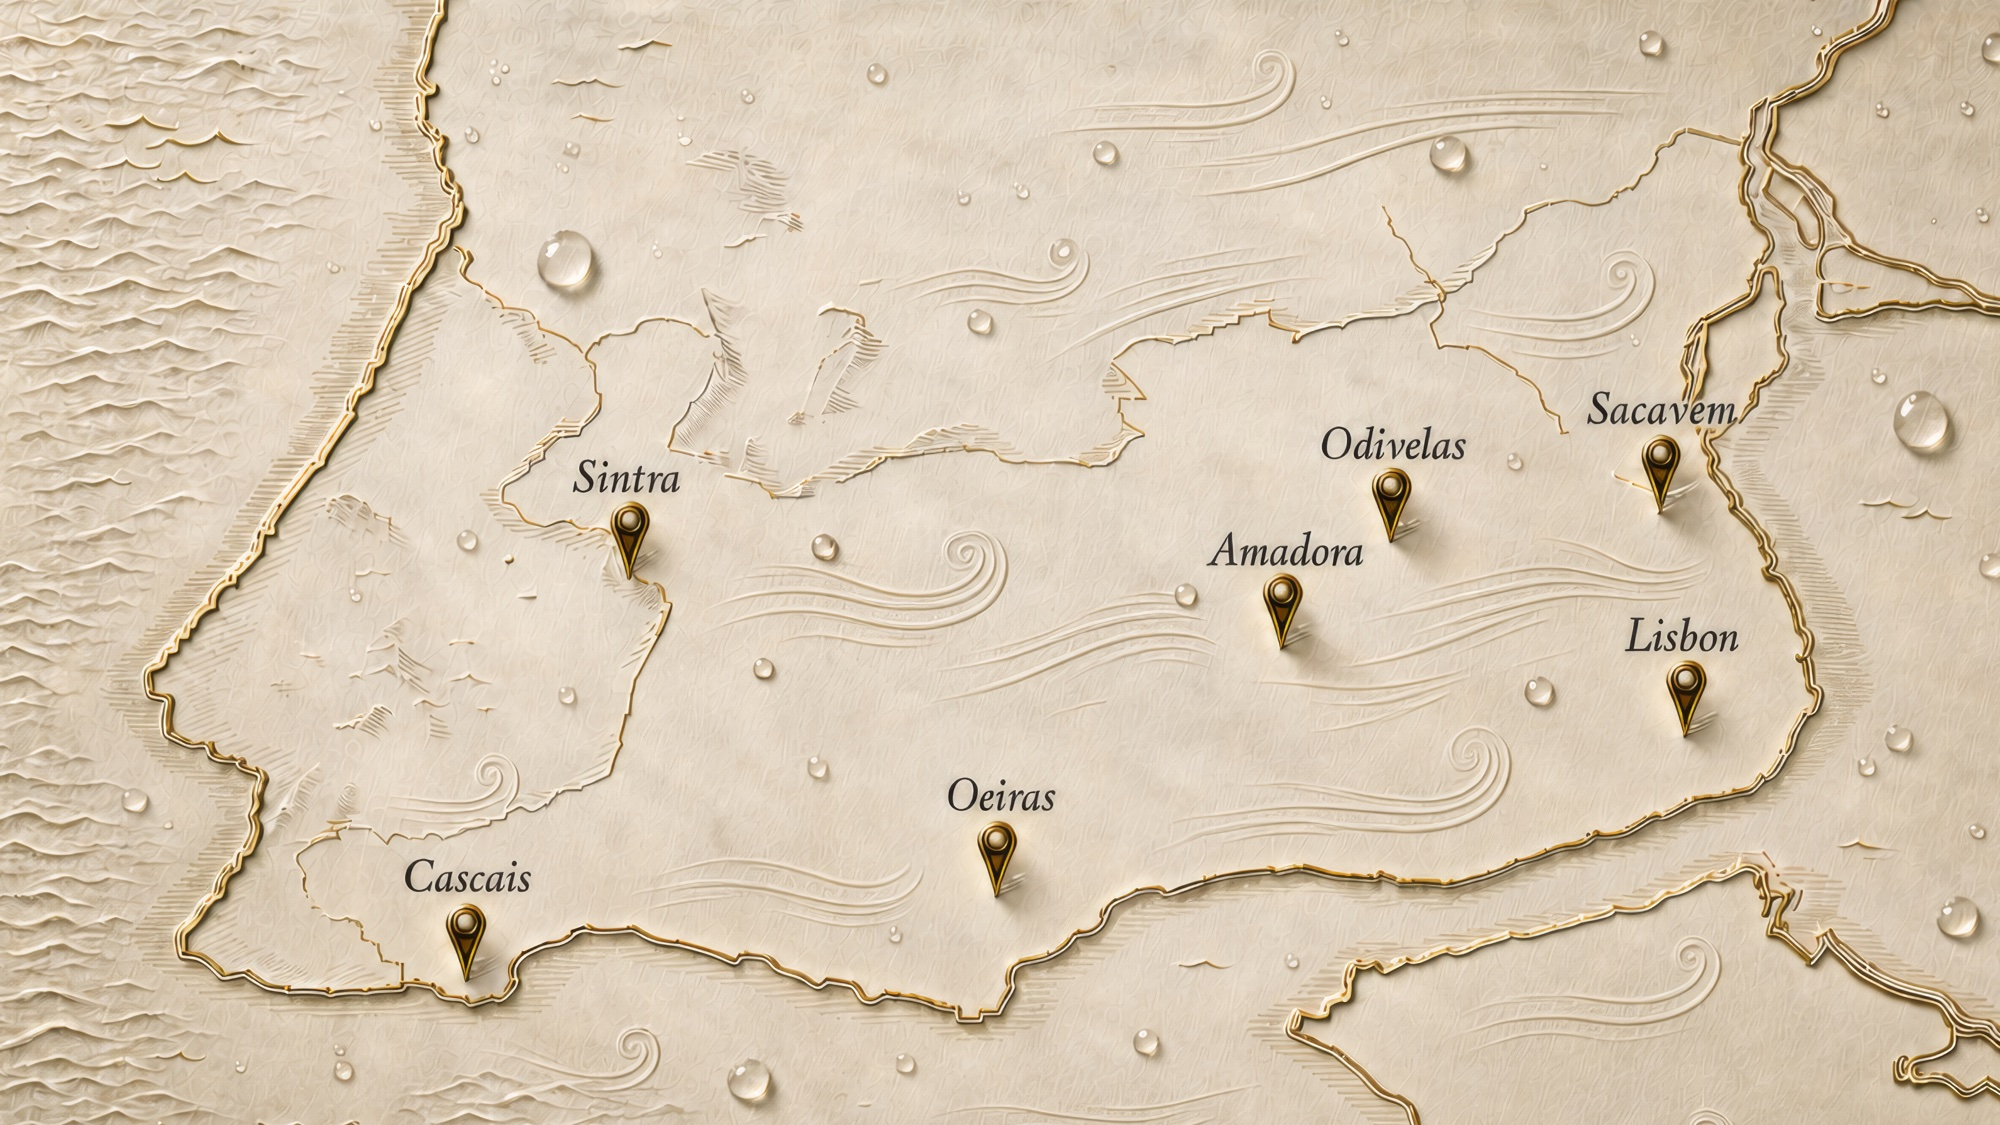
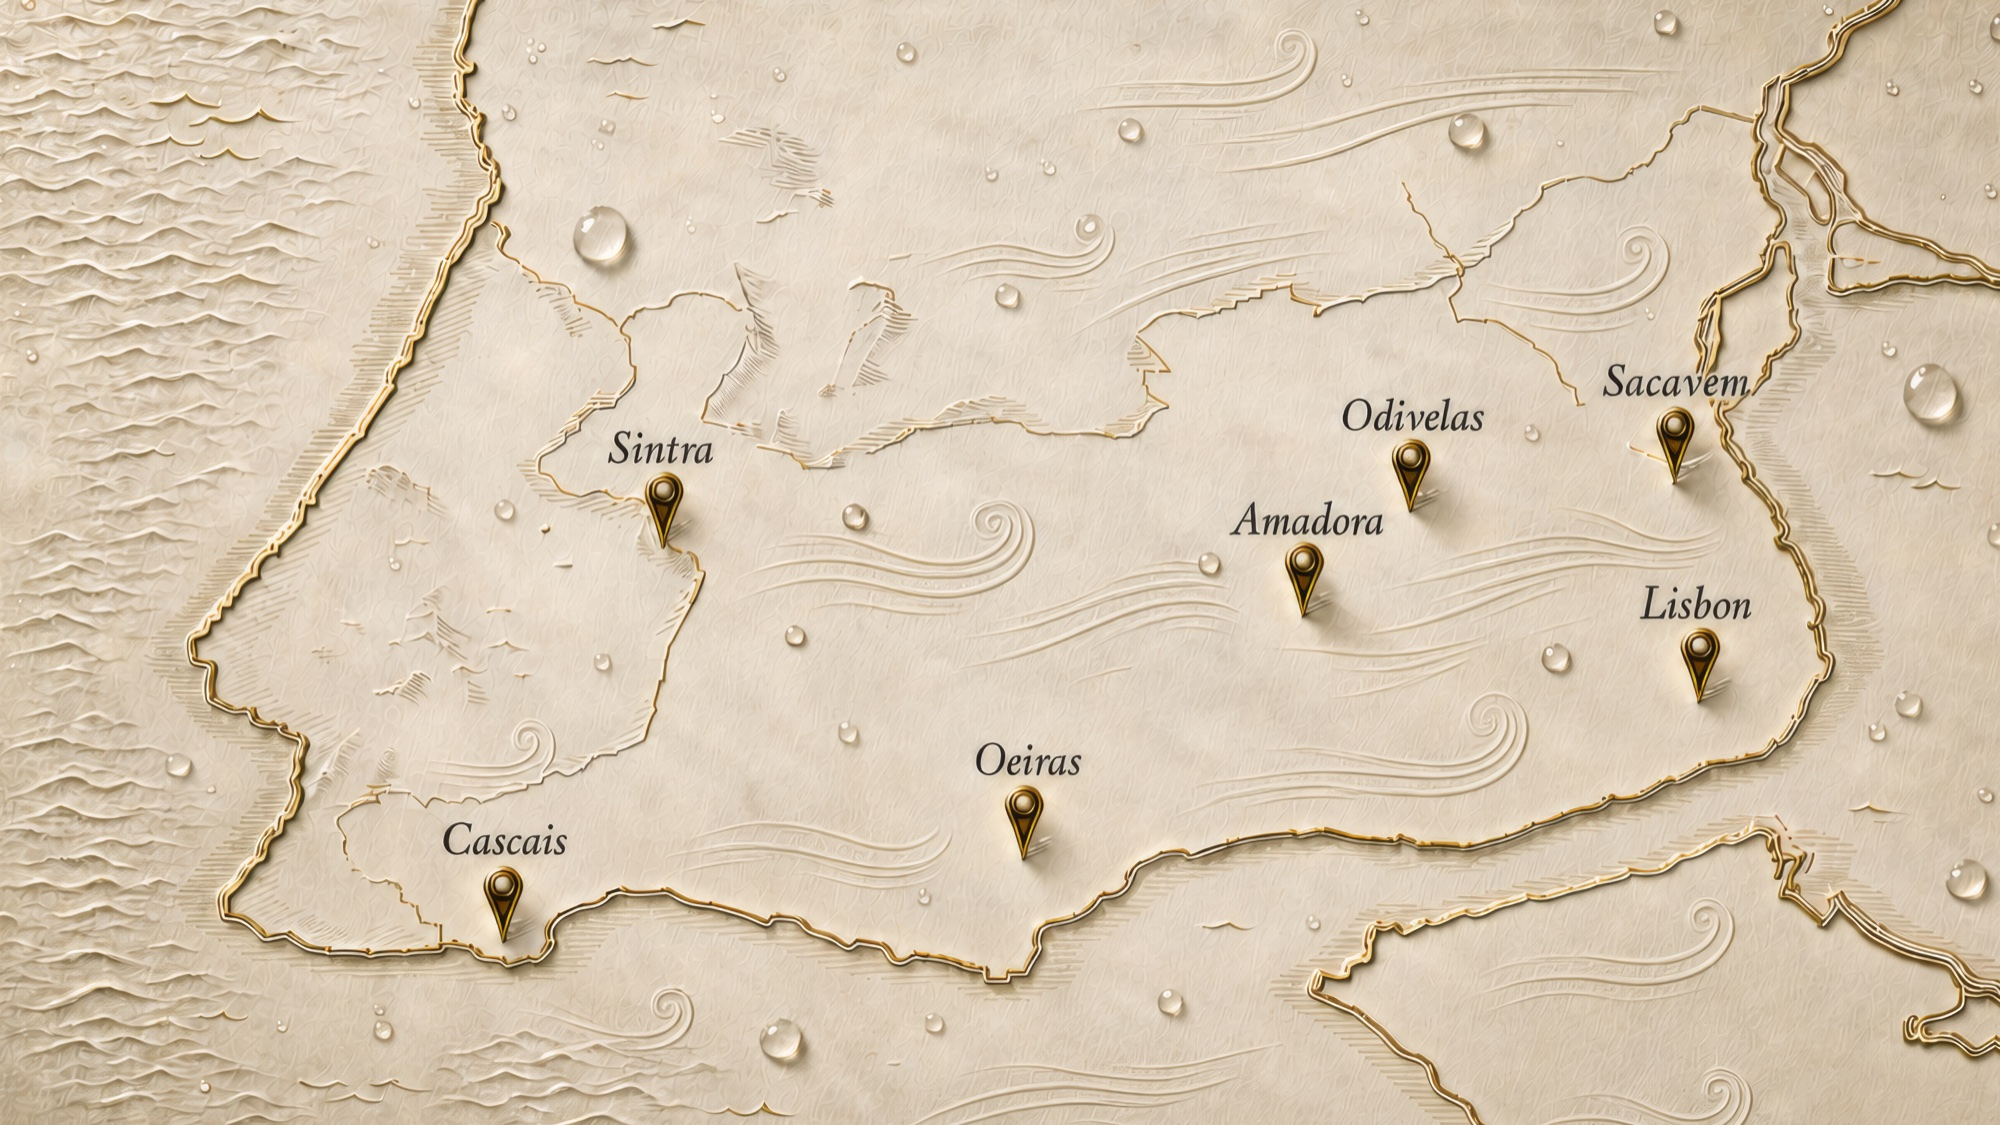
Local mastery: refresh final-map-3 with new artwork
Re-encoded the user's updated final-map-3.png at 2000 px wide,
JPEG q85 — the climate map now uses the new source image.

diff --git a/index.html b/index.html
@@ -22,10 +22,10 @@
   <link rel="preconnect" href="https://fonts.gstatic.com" crossorigin />
   <link href="https://fonts.googleapis.com/css2?family=Cormorant+Garamond:ital,wght@0,300;0,400;0,500;1,400&family=Inter:wght@300;400;500;600&family=Sacramento&display=swap" rel="stylesheet" />
 
-  <link rel="preload" as="video" href="assets/videos/introvidfinal.mp4?v=153" />
+  <link rel="preload" as="video" href="assets/videos/introvidfinal.mp4?v=154" />
 
-  <link rel="stylesheet" href="css/index.css?v=153" />
-  <link rel="stylesheet" href="css/animations.css?v=153" />
+  <link rel="stylesheet" href="css/index.css?v=154" />
+  <link rel="stylesheet" href="css/animations.css?v=154" />
 
   <script type="application/ld+json">
   {
@@ -79,7 +79,7 @@
       <video
         class="intro__video"
         data-hero-master
-        src="assets/videos/introvidfinal.mp4?v=153"
+        src="assets/videos/introvidfinal.mp4?v=154"
         muted
         playsinline
         preload="auto"
@@ -131,8 +131,8 @@
           <video
             class="manifesto__portrait-video"
             data-living-portrait
-            src="assets/videos/maja-animation.mp4?v=153"
-            poster="assets/images/maja-portrait-v2.webp?v=153"
+            src="assets/videos/maja-animation.mp4?v=154"
+            poster="assets/images/maja-portrait-v2.webp?v=154"
             muted loop playsinline preload="metadata"
             aria-label="Maja Milič — founder, designer, problem-solver"
           ></video>
@@ -151,7 +151,7 @@
     <section class="stats" aria-label="At a glance">
       <video
         class="stats__bg"
-        src="assets/videos/stats-band-bg.mp4?v=153"
+        src="assets/videos/stats-band-bg.mp4?v=154"
         autoplay loop muted playsinline preload="metadata"
         aria-hidden="true"
         tabindex="-1"
@@ -220,7 +220,7 @@
                   <video
                     class="tile__video"
                     data-tile-video
-                    src="assets/videos/transformation-rosario.mp4?v=153"
+                    src="assets/videos/transformation-rosario.mp4?v=154"
                     poster="assets/images/rosario-hero.webp"
                     muted playsinline preload="metadata" tabindex="-1"
                   ></video>
@@ -250,7 +250,7 @@
                   <video
                     class="tile__video"
                     data-tile-video
-                    src="assets/videos/transformation-alvide.mp4?v=153"
+                    src="assets/videos/transformation-alvide.mp4?v=154"
                     poster="assets/images/alvide-hero.webp"
                     muted playsinline preload="metadata" tabindex="-1"
                   ></video>
@@ -280,7 +280,7 @@
                   <video
                     class="tile__video"
                     data-tile-video
-                    src="assets/videos/transformation-riviera.mp4?v=153"
+                    src="assets/videos/transformation-riviera.mp4?v=154"
                     poster="assets/images/riviera-openplan.webp"
                     muted playsinline preload="metadata" tabindex="-1"
                   ></video>
@@ -312,7 +312,7 @@
                   <video
                     class="tile__video"
                     data-tile-video
-                    src="assets/videos/transformation-figueiras.mp4?v=153"
+                    src="assets/videos/transformation-figueiras.mp4?v=154"
                     poster="assets/images/figueiras-open-plan.webp"
                     muted playsinline preload="metadata" tabindex="-1"
                   ></video>
@@ -342,7 +342,7 @@
                   <video
                     class="tile__video"
                     data-tile-video
-                    src="assets/videos/transformation-rebelva.mp4?v=153"
+                    src="assets/videos/transformation-rebelva.mp4?v=154"
                     poster="assets/images/rebelva-sala.webp"
                     muted playsinline preload="metadata" tabindex="-1"
                   ></video>
@@ -372,7 +372,7 @@
                   <video
                     class="tile__video"
                     data-tile-video
-                    src="assets/videos/transformation-amoreira.mp4?v=153"
+                    src="assets/videos/transformation-amoreira.mp4?v=154"
                     poster="assets/images/amoreira-hero.webp"
                     muted playsinline preload="metadata" tabindex="-1"
                   ></video>
@@ -484,7 +484,7 @@
       <div class="craft__grid">
         <article class="craft__cell">
           <figure class="craft__shot">
-            <img src="assets/images/pillar-1.png?v=153" alt="The hand that drew it is the hand that lays it — Maya's Homes craftspeople at work" loading="lazy" decoding="async" />
+            <img src="assets/images/pillar-1.png?v=154" alt="The hand that drew it is the hand that lays it — Maya's Homes craftspeople at work" loading="lazy" decoding="async" />
           </figure>
           <h3 class="craft__pillar">The hand that drew it is the hand that lays it.</h3>
           <p class="craft__copy">Every craftsperson on a Maya&rsquo;s Homes project has been with Maja for years. The team that builds your home is one she trusts with her own.</p>
@@ -492,7 +492,7 @@
 
         <article class="craft__cell">
           <figure class="craft__shot">
-            <img src="assets/images/pillar-2.png?v=153" alt="One number, the same team — Maja directing the in-house crew" loading="lazy" decoding="async" />
+            <img src="assets/images/pillar-2.png?v=154" alt="One number, the same team — Maja directing the in-house crew" loading="lazy" decoding="async" />
           </figure>
           <h3 class="craft__pillar">One number. The same names.</h3>
           <p class="craft__copy">When something needs to change, you call Maja. The person who shows up is the same person who built the room&nbsp;— chosen by her, kept by her, known to her by name for years.</p>
@@ -500,7 +500,7 @@
 
         <article class="craft__cell">
           <figure class="craft__shot">
-            <img src="assets/images/pillar-3.png?v=153" alt="We never really leave — long-term care from the same team" loading="lazy" decoding="async" />
+            <img src="assets/images/pillar-3.png?v=154" alt="We never really leave — long-term care from the same team" loading="lazy" decoding="async" />
           </figure>
           <h3 class="craft__pillar">We never really leave.</h3>
           <p class="craft__copy">A bulb in year three. A hinge in year five. The people who built your home are the people who maintain it&nbsp;— and Maja walks back through the door with them.</p>
@@ -964,8 +964,8 @@
   <script src="https://cdn.jsdelivr.net/npm/lenis@1.1.13/dist/lenis.min.js"></script>
 
   <!-- Order matters: main.js wires Lenis ↔ ScrollTrigger BEFORE scroll-scrub creates triggers. -->
-  <script src="js/main.js?v=153" type="module"></script>
-  <script src="js/scroll-scrub.js?v=153" type="module"></script>
-  <script src="js/nav.js?v=153" type="module"></script>
+  <script src="js/main.js?v=154" type="module"></script>
+  <script src="js/scroll-scrub.js?v=154" type="module"></script>
+  <script src="js/nav.js?v=154" type="module"></script>
 </body>
 </html>
